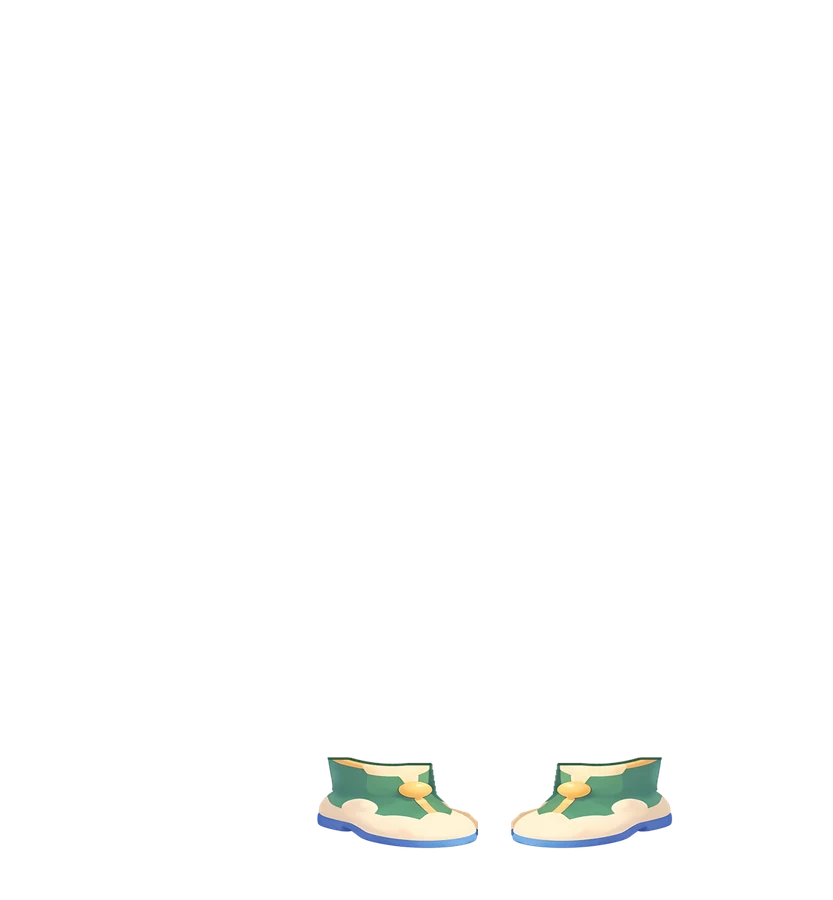
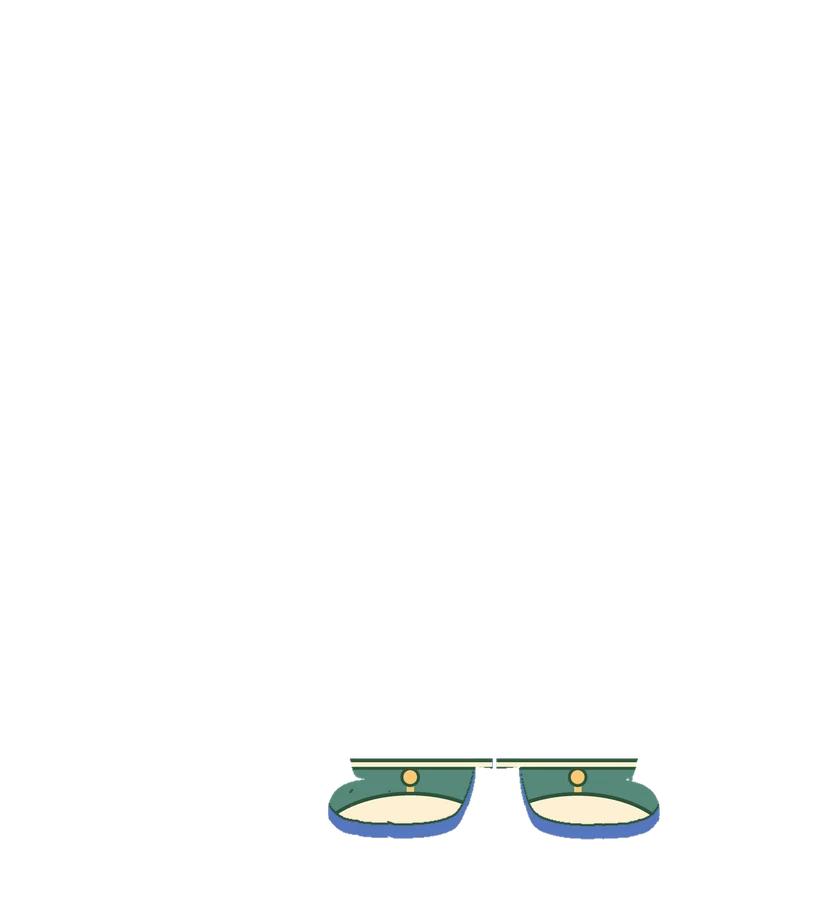
Hǔhǔ Thay Đồ: ears stay behind hats, leaf top covers torso and arms, boots take the foot shape
Claude-Session: https://claude.ai/code/session_014qHujtA2z4ZRALee3926PQ

Changed region(s): [[0.3745, 0.84, 0.8115, 0.9644]]

diff --git a/docs/hu-hu-thay-do/hu-hu-thay-do.html b/docs/hu-hu-thay-do/hu-hu-thay-do.html
@@ -93,7 +93,7 @@ h1 { font-family: var(--font-display); font-weight: 800; font-size: 28px; margin
 </div>
 
 <script>
-const DATA = {"size": [833, 900], "items": [{"id": "mu-chin-tang-gio", "name": "Mũ Chín Tầng Gió", "slot": "head", "slotVi": "Đầu", "z": 6, "covered": true}, {"id": "mu-tan-bong-bay", "name": "Mũ Tán Bóng Bay", "slot": "head", "slotVi": "Đầu", "z": 6, "covered": true}, {"id": "mu-mang-bay-dot", "name": "Mũ Măng Bảy Đốt", "slot": "head", "slotVi": "Đầu", "z": 6, "covered": true}, {"id": "hoa-hai-mau", "name": "Hoa Hai Màu", "slot": "head", "slotVi": "Đầu", "z": 6, "covered": false}, {"id": "vong-dom-dom", "name": "Vòng Đom Đóm", "slot": "head", "slotVi": "Đầu", "z": 6, "covered": false}, {"id": "cai-la", "name": "Cài Lá", "slot": "head", "slotVi": "Đầu", "z": 6, "covered": false}, {"id": "khan-nam-dong-song", "name": "Khăn Năm Dòng Sông", "slot": "neck", "slotVi": "Cổ", "z": 5, "covered": false}, {"id": "mat-day-vong-trang", "name": "Mặt Dây Vòng Trăng", "slot": "neck", "slotVi": "Cổ", "z": 5, "covered": false}, {"id": "khan-la-biet-bay", "name": "Khăn Lá Biết Bay", "slot": "neck", "slotVi": "Cổ", "z": 5, "covered": false}, {"id": "khan-gio", "name": "Khăn Gió", "slot": "neck", "slotVi": "Cổ", "z": 5, "covered": false}, {"id": "khan-la-soc", "name": "Khăn Lá Sọc", "slot": "neck", "slotVi": "Cổ", "z": 5, "covered": false}, {"id": "chuoi-hat-go", "name": "Chuỗi Hạt Gỗ", "slot": "neck", "slotVi": "Cổ", "z": 5, "covered": false}, {"id": "no-la", "name": "Nơ Lá", "slot": "neck", "slotVi": "Cổ", "z": 5, "covered": false}, {"id": "ao-choang-la", "name": "Áo Choàng Lá", "slot": "shoulders", "slotVi": "Vai", "z": 4, "covered": false}, {"id": "canh-nho", "name": "Cánh Nhỏ", "slot": "back", "slotVi": "Lưng", "z": 0, "covered": false}, {"id": "gio-hat-mam", "name": "Giỏ Hạt Mầm", "slot": "hand", "slotVi": "Tay", "z": 7, "covered": false}, {"id": "binh-ngoc-xanh", "name": "Bình Ngọc Xanh", "slot": "hand", "slotVi": "Tay", "z": 7, "covered": false}, {"id": "tui-la", "name": "Túi Lá", "slot": "hand", "slotVi": "Tay", "z": 7, "covered": false}, {"id": "dieu-gio-chay", "name": "Diều Gió Chạy", "slot": "hand", "slotVi": "Tay", "z": 7, "covered": false}, {"id": "dua-la", "name": "Đũa Lá", "slot": "hand", "slotVi": "Tay", "z": 7, "covered": false}, {"id": "gang-tay-la", "name": "Găng Tay Lá", "slot": "hand", "slotVi": "Tay", "z": 7, "covered": false}, {"id": "giay-la", "name": "Giày Lá", "slot": "feet", "slotVi": "Chân", "z": 3, "covered": false}], "outfits": [{"name": "Nhà du hành gió", "ids": ["mu-chin-tang-gio", "khan-gio", "dieu-gio-chay"]}, {"name": "Người canh trăng", "ids": ["vong-dom-dom", "mat-day-vong-trang", "canh-nho"]}, {"name": "Rừng thức dậy", "ids": ["mu-tan-bong-bay", "khan-la-biet-bay", "gio-hat-mam", "giay-la"]}, {"name": "Thợ săn đom đóm", "ids": ["vong-dom-dom", "chuoi-hat-go", "tui-la"]}, {"name": "Hiệp sĩ măng", "ids": ["mu-mang-bay-dot", "ao-choang-la", "gang-tay-la", "giay-la"]}, {"name": "Tiên nhỏ", "ids": ["hoa-hai-mau", "no-la", "canh-nho", "dua-la"]}]};
+const DATA = {"size": [833, 900], "items": [{"id": "mu-chin-tang-gio", "name": "Mũ Chín Tầng Gió", "slot": "head", "slotVi": "Đầu", "z": 6, "covered": false}, {"id": "mu-tan-bong-bay", "name": "Mũ Tán Bóng Bay", "slot": "head", "slotVi": "Đầu", "z": 6, "covered": false}, {"id": "mu-mang-bay-dot", "name": "Mũ Măng Bảy Đốt", "slot": "head", "slotVi": "Đầu", "z": 6, "covered": false}, {"id": "hoa-hai-mau", "name": "Hoa Hai Màu", "slot": "head", "slotVi": "Đầu", "z": 6, "covered": false}, {"id": "vong-dom-dom", "name": "Vòng Đom Đóm", "slot": "head", "slotVi": "Đầu", "z": 6, "covered": false}, {"id": "cai-la", "name": "Cài Lá", "slot": "head", "slotVi": "Đầu", "z": 6, "covered": false}, {"id": "khan-nam-dong-song", "name": "Khăn Năm Dòng Sông", "slot": "neck", "slotVi": "Cổ", "z": 5, "covered": false}, {"id": "mat-day-vong-trang", "name": "Mặt Dây Vòng Trăng", "slot": "neck", "slotVi": "Cổ", "z": 5, "covered": false}, {"id": "khan-la-biet-bay", "name": "Khăn Lá Biết Bay", "slot": "neck", "slotVi": "Cổ", "z": 5, "covered": false}, {"id": "khan-gio", "name": "Khăn Gió", "slot": "neck", "slotVi": "Cổ", "z": 5, "covered": false}, {"id": "khan-la-soc", "name": "Khăn Lá Sọc", "slot": "neck", "slotVi": "Cổ", "z": 5, "covered": false}, {"id": "chuoi-hat-go", "name": "Chuỗi Hạt Gỗ", "slot": "neck", "slotVi": "Cổ", "z": 5, "covered": false}, {"id": "no-la", "name": "Nơ Lá", "slot": "neck", "slotVi": "Cổ", "z": 5, "covered": false}, {"id": "ao-choang-la", "name": "Áo Choàng Lá", "slot": "shoulders", "slotVi": "Vai", "z": 4, "covered": false}, {"id": "canh-nho", "name": "Cánh Nhỏ", "slot": "back", "slotVi": "Lưng", "z": 0, "covered": false}, {"id": "gio-hat-mam", "name": "Giỏ Hạt Mầm", "slot": "hand", "slotVi": "Tay", "z": 7, "covered": false}, {"id": "binh-ngoc-xanh", "name": "Bình Ngọc Xanh", "slot": "hand", "slotVi": "Tay", "z": 7, "covered": false}, {"id": "tui-la", "name": "Túi Lá", "slot": "hand", "slotVi": "Tay", "z": 7, "covered": false}, {"id": "dieu-gio-chay", "name": "Diều Gió Chạy", "slot": "hand", "slotVi": "Tay", "z": 7, "covered": false}, {"id": "dua-la", "name": "Đũa Lá", "slot": "hand", "slotVi": "Tay", "z": 7, "covered": false}, {"id": "gang-tay-la", "name": "Găng Tay Lá", "slot": "hand", "slotVi": "Tay", "z": 7, "covered": false}, {"id": "giay-la", "name": "Giày Lá", "slot": "feet", "slotVi": "Chân", "z": 3, "covered": false}], "outfits": [{"name": "Nhà du hành gió", "ids": ["mu-chin-tang-gio", "khan-gio", "dieu-gio-chay"]}, {"name": "Người canh trăng", "ids": ["vong-dom-dom", "mat-day-vong-trang", "canh-nho"]}, {"name": "Rừng thức dậy", "ids": ["mu-tan-bong-bay", "khan-la-biet-bay", "gio-hat-mam", "giay-la"]}, {"name": "Thợ săn đom đóm", "ids": ["vong-dom-dom", "chuoi-hat-go", "tui-la"]}, {"name": "Hiệp sĩ măng", "ids": ["mu-mang-bay-dot", "ao-choang-la", "gang-tay-la", "giay-la"]}, {"name": "Tiên nhỏ", "ids": ["hoa-hai-mau", "no-la", "canh-nho", "dua-la"]}]};
 const SLOTS = [["all", "Tất cả"], ["head", "Đầu"], ["neck", "Cổ"], ["shoulders", "Vai"], ["back", "Lưng"], ["hand", "Tay"], ["feet", "Chân"]];
 const ORDER = ["head", "neck", "shoulders", "back", "hand", "feet"];
 const byId = Object.fromEntries(DATA.items.map(i => [i.id, i]));

diff --git a/scripts/build_dressup.py b/scripts/build_dressup.py
@@ -28,9 +28,9 @@ SLOT_VI = {"head": "Đầu", "neck": "Cổ", "shoulders": "Vai", "back": "Lưng"
 # file, id, name, slot, placement. Placement (fractions of the pose): x = centre, w = width,
 # and one of bottom / top / cy for the vertical edge. ears: front | covered. wrap: ring around the head.
 CATALOG = [
-    ("00", "mu-chin-tang-gio", "Mũ Chín Tầng Gió", "head", dict(x=.495, w=.50, bottom=.255, ears="covered")),
-    ("02", "mu-tan-bong-bay", "Mũ Tán Bóng Bay", "head", dict(x=.495, w=.54, bottom=.26, ears="covered")),
-    ("03", "mu-mang-bay-dot", "Mũ Măng Bảy Đốt", "head", dict(x=.495, w=.46, bottom=.255, ears="covered")),
+    ("00", "mu-chin-tang-gio", "Mũ Chín Tầng Gió", "head", dict(x=.495, w=.50, bottom=.255, ears="behind")),
+    ("02", "mu-tan-bong-bay", "Mũ Tán Bóng Bay", "head", dict(x=.495, w=.54, bottom=.26, ears="behind")),
+    ("03", "mu-mang-bay-dot", "Mũ Măng Bảy Đốt", "head", dict(x=.495, w=.46, bottom=.255, ears="behind")),
     ("04", "hoa-hai-mau", "Hoa Hai Màu", "head", dict(x=.24, w=.20, cy=.21, ears="front")),
     ("05", "vong-dom-dom", "Vòng Đom Đóm", "head", dict(x=.50, w=.62, bottom=.31, ears="front", wrap=.66)),
     ("26", "cai-la", "Cài Lá", "head", dict(x=.76, w=.20, cy=.21, ears="front")),
@@ -41,7 +41,7 @@ CATALOG = [
     ("17", "khan-la-soc", "Khăn Lá Sọc", "neck", dict(x=.50, w=.60, top=.50, band=True)),
         ("32", "chuoi-hat-go", "Chuỗi Hạt Gỗ", "neck", dict(x=.50, w=.40, top=.44)),
     ("33", "no-la", "Nơ Lá", "neck", dict(x=.50, w=.42, top=.47)),
-    ("10", "ao-choang-la", "Áo Choàng Lá", "shoulders", dict(x=.50, w=.64, top=.455)),
+    ("10", "ao-choang-la", "Áo Choàng Lá", "shoulders", dict(worn="top")),
     ("16b", "canh-nho", "Cánh Nhỏ", "back", dict(x=.50, w=1.10, cy=.47)),
     ("13", "gio-hat-mam", "Giỏ Hạt Mầm", "hand", dict(h=.24, grip=(.50, .05))),
     ("23", "binh-ngoc-xanh", "Bình Ngọc Xanh", "hand", dict(h=.21, grip=(.52, .06))),
@@ -49,7 +49,7 @@ CATALOG = [
     ("21", "dieu-gio-chay", "Diều Gió Chạy", "hand", dict(h=.34, grip=(.05, .33), mirror=True, fly=(.08, .40))),
     ("22", "dua-la", "Đũa Lá", "hand", dict(h=.42, grip=(.14, .80), mirror=True)),
     ("18+19", "gang-tay-la", "Găng Tay Lá", "hand", dict(pair="paws", top=.70)),
-    ("14", "giay-la", "Giày Lá", "feet", dict(pair="feet", w=.27, h=.165)),
+    ("14", "giay-la", "Giày Lá", "feet", dict(pair="feet", top=.85)),
 ]
 PAWS = [(.215, .855), (.787, .855)]       # left / right paw centres (fists tucked at the sides)
 ARMS = [(.205, .80, .15, .26), (.744, .80, .70, .78)]  # a point inside each forearm strip, its x range
@@ -144,6 +144,94 @@ def worn_gloves(pose_a, pose_rgb, art, W, H, pad, canvas, top):
     return hi.resize(canvas, Image.LANCZOS)
 
 
+def fill_region(pose, seeds, y0, y1, x_ranges=None, drop_white=False):
+    """Fur area of the pose (inside its outlines) reachable from the seeds between rows y0..y1."""
+    a = pose.astype(int)
+    W, H = pose.shape[1], pose.shape[0]
+    lum = a[..., :3] @ np.array([299, 587, 114]) // 1000
+    inside = (a[..., 3] > 200) & (lum > 100)
+    if drop_white:                                    # the white cheek tufts belong to the head
+        inside &= ~((a[..., 0] > 240) & (a[..., 1] > 240) & (a[..., 2] > 235))
+    ys = np.arange(H)[:, None]
+    lo = y0(np.arange(W))[None, :] if callable(y0) else y0 * H
+    inside &= (ys >= lo) & (ys < y1 * H)
+    out = np.zeros_like(inside)
+    for n, (sx, sy) in enumerate(seeds):
+        box = inside.copy()
+        if x_ranges and x_ranges[n]:
+            xa, xb = x_ranges[n]
+            box[:, : round(xa * W)] = False
+            box[:, round(xb * W):] = False
+        work = Image.fromarray(box.astype(np.uint8) * 255).copy()
+        ImageDraw.floodfill(work, (round(sx * W), round(sy * H)), 128, thresh=0)
+        got = np.asarray(work) == 128
+        shut = Image.fromarray(got.astype(np.uint8) * 255).filter(ImageFilter.MaxFilter(9)).filter(ImageFilter.MinFilter(9))
+        out |= got | ((np.asarray(shut) > 0) & (a[..., 3] > 200) & (lum > 60))   # close thin creases (toe lines)
+    return out
+
+
+def texture_into(region, art, W, H, pad, canvas, grow=(0, 0, 0, 0)):
+    """Stretch the art over the region's box (grown by fractions l, t, r, b) and keep it inside the region."""
+    ys, xs = np.nonzero(region)
+    x0, x1, y0, y1 = xs.min() - grow[0] * W, xs.max() + grow[2] * W, ys.min() - grow[1] * H, ys.max() + grow[3] * H
+    tex = art.resize((round(x1 - x0), round(y1 - y0)), Image.LANCZOS)
+    m = Image.fromarray(region.astype(np.uint8) * 255).filter(ImageFilter.MaxFilter(3))
+    layer = Image.new("RGBA", (W, H))
+    layer.alpha_composite(tex, (round(x0), round(y0)))
+    layer.putalpha(ImageChops.multiply(layer.getchannel("A"), m))
+    out = Image.new("RGBA", canvas)
+    out.alpha_composite(layer, (pad, pad))
+    return out
+
+
+def front_boot(region, art, W, H, pad, canvas):
+    """A front-view boot in the boot art's colours, drawn inside the foot's own outline:
+    green shaft, cream toe cap, blue sole along the bottom contour, cream rim and gold bead on top."""
+    a = np.asarray(art).reshape(-1, 4)
+    px = a[a[:, 3] > 200][:, :3].astype(int)
+    r, g, b = px.T
+    pick = lambda m: tuple(int(v) for v in np.median(px[m], axis=0)) + (255,)
+    green, cream = pick((g > r + 15) & (g < 170)), pick((r > 235) & (g > 225) & (b > 180))
+    gold, blue = pick((r > 220) & (b < 140)), pick(b > r + 50)
+    ink = fp.OUTLINE + (255,)
+    ys, xs = np.nonzero(region)
+    x0, x1, y0, y1 = xs.min(), xs.max(), ys.min(), ys.max()
+    k = 4
+    big = lambda m: Image.fromarray(m.astype(np.uint8) * 255).resize((W * k, H * k), Image.LANCZOS)
+    img = Image.new("RGBA", (W * k, H * k))
+    d = ImageDraw.Draw(img)
+    d.rectangle([x0 * k, y0 * k, x1 * k, y1 * k], fill=green)
+    lw = .006 * H * k
+    toe = y0 + (y1 - y0) * .42                      # cream toe cap, rounded top
+    d.ellipse([(x0 - .03 * W) * k, toe * k, (x1 + .03 * W) * k, (y1 + (y1 - y0) * .9) * k], fill=cream, outline=ink, width=round(lw))
+    sole_t = round(.022 * H)                        # sole: a band following the bottom contour
+    up = np.zeros_like(region)
+    up[:-sole_t] = region[sole_t:]
+    sole = region & ~up
+    soft = big(sole)
+    blue_l = Image.new("RGBA", img.size, blue)
+    blue_l.putalpha(soft)
+    img.alpha_composite(blue_l)
+    line = big(np.roll(sole, -2, axis=0) & ~sole & region)
+    ink_l = Image.new("RGBA", img.size, ink)
+    ink_l.putalpha(line.filter(ImageFilter.MaxFilter(5)))
+    img.alpha_composite(ink_l)
+    rim = .016 * H                                  # front rim where the leg goes in
+    d.rectangle([x0 * k, y0 * k, x1 * k, (y0 + rim) * k], fill=cream)
+    d.line([(x0 * k, (y0 + rim) * k), (x1 * k, (y0 + rim) * k)], fill=ink, width=round(lw * .8))
+    d.line([(x0 * k, y0 * k + lw / 2), (x1 * k, y0 * k + lw / 2)], fill=ink, width=round(lw))
+    cxm = (x0 + x1) / 2
+    d.line([(cxm * k, (y0 + rim) * k), (cxm * k, toe * k)], fill=gold, width=round(.012 * H * k))
+    br = .016 * H
+    by = y0 + rim + br * .9
+    d.ellipse([(cxm - br) * k, (by - br) * k, (cxm + br) * k, (by + br) * k], fill=gold, outline=ink, width=round(lw * .8))
+    m = big(region).filter(ImageFilter.MaxFilter(5))
+    img.putalpha(ImageChops.multiply(img.getchannel("A"), m))
+    out = Image.new("RGBA", canvas)
+    out.alpha_composite(img.resize((W, H), Image.LANCZOS), (pad, pad))
+    return out
+
+
 def boot_worn(boot):
     """Cut the boot opening and the back of its rim: on a foot the leg fills the opening, so only
     the front rim shows, with the leg going in behind it."""
@@ -226,13 +314,13 @@ def main():
             thumb.alpha_composite(l, (0, 0)); thumb.alpha_composite(r, (l.width + 20, 0))
         elif p.get("pair") == "feet":
             pair = load(files)
-            r = load("14-boot")                           # the front boot is the only complete one
-            top = 1 - boot_worn(r).height / r.height       # share of the boot height cut away
-            r = boot_worn(r).resize((round(p["w"] * W), round(p["h"] * H * (1 - top))), Image.LANCZOS)  # exact foot size
+            r = boot_worn(load("14-boot"))                 # the front boot is the only complete one
             l = r.transpose(Image.FLIP_LEFT_RIGHT)
+            pose = np.asarray(base.crop((pad, pad, pad + W, pad + H)))
             layer = Image.new("RGBA", canvas)
-            for art, (fx, fy) in zip((l, r), FEET):
-                layer.alpha_composite(art, (round(fx * W + pad - art.width / 2), round(fy * H + pad - art.height)))
+            for art, (fx, fy) in zip((l, r), FEET):          # the boot takes the foot's own shape
+                foot = fill_region(pose, [(fx, .94)], p["top"], 1.0, [(fx - .16, fx + .16)])
+                layer.alpha_composite(front_boot(foot, art, W, H, pad, canvas))
             thumb = pair
         else:
             art = load(files)
@@ -240,7 +328,15 @@ def main():
             if p.get("cut_below"):  # keep only the part above this fraction (hood lining would hide the face)
                 art = art.crop((0, 0, art.width, round(art.height * p["cut_below"])))
                 art = art.crop(art.getbbox())
-            if slot == "hand":
+            if p.get("worn") == "top":                   # a top covers the torso and both arms
+                pose = np.asarray(base.crop((pad, pad, pad + W, pad + H)))
+                cx, cy = zip(*geo["chin"])
+                chin = lambda x: (np.interp(x / W, cx, cy) + .012) * H
+                torso = fill_region(pose, [(.50, .70)], chin, .865, drop_white=True)
+                arms = fill_region(pose, [a[:2] for a in ARMS], .60, .866, [a[2:] for a in ARMS])
+                torso &= np.asarray(torso_img.crop((pad, pad, pad + W, pad + H))) > 0
+                layer = texture_into(torso | arms, art, W, H, pad, canvas, (.02, .05, .02, .03))
+            elif slot == "hand":
                 px, py = PAWS[0]
                 h = p["h"] * H
                 art = art.resize((max(1, round(art.width * h / art.height)), max(1, round(h))), Image.LANCZOS)
@@ -262,7 +358,7 @@ def main():
                 layer.alpha_composite(fp.paw(canvas, px * W + pad, py * H + pad, W))   # paw closes on the grip
             else:
                 edge = "bottom" if "bottom" in p else "top" if "top" in p else "cy"
-                if slot in ("neck", "shoulders"):
+                if slot == "neck":
                     art = fp.bend(art, -0.028 * H)
                 layer = put(canvas, art, p["x"], p[edge], edge, W, H, pad, width=p["w"])
                 if p.get("band"):  # the scarf goes all the way round the neck, knot on top
